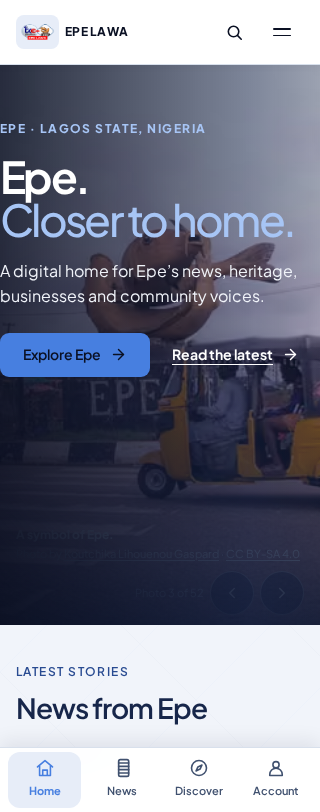
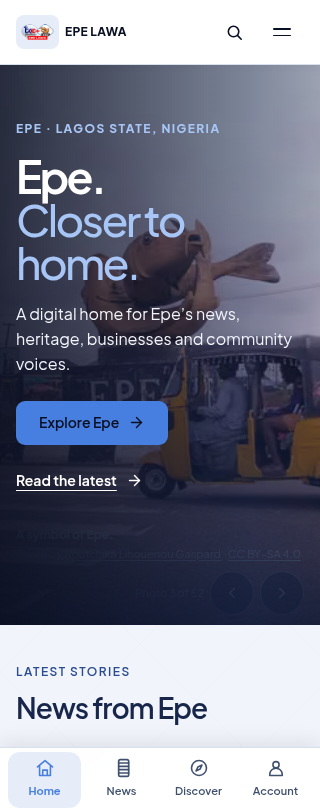
docs: refresh UI slice screenshots and verification

diff --git a/docs/screenshots/ui-first-slice/2026-11-15/README.md b/docs/screenshots/ui-first-slice/2026-11-15/README.md
@@ -1,27 +1,32 @@
 # EPE LAWA first UI slice — visual and responsive evidence
 
-These screenshots were captured from the production build in the isolated candidate worktree, not from a deployment. The responsive browser smoke passed at 320, 375, 600, 767, 768, 800, 960, 1024 and 1440 CSS pixels.
+These screenshots were captured from a local production build of app-code commit [`b447a5afa4e685e23a4503f802c66bd6795e5261`](https://github.com/epelawa/EPE-LAWA/commit/b447a5afa4e685e23a4503f802c66bd6795e5261) in the isolated candidate worktree—not from a deployed environment. The screenshots and this README are evidence-only updates after that application commit; no app source changed afterward.
 
-## What the smoke verified
+## What the browser smoke verified
 
-At every width, the page had no horizontal overflow. From 320px through 767px, the fixed navigation displayed exactly four mounted destinations—Home (`/`), News (`/news`), Discover (`/tourism`) and Account (`/dashboard`)—with 56px-tall links. The News and Discover tabs exposed the correct current state. The homepage’s first “News from Epe” heading cleared the fixed bar by about 20–23px at 320, 375, 600 and 767px. At 768px and above, the bottom bar was hidden; the desktop navigation appeared at 1024px and 1440px.
+The production-mode Chromium smoke passed at 320, 375, 600, 767, 768, 800, 960, 1024 and 1440 CSS pixels. There was no horizontal overflow at any width. At 320px the hero copy kept 16px left/right gutters; at 375px it kept 20px gutters. The first “News from Epe” heading cleared the fixed bar by about 20–23px on mobile.
 
-The Community group in the mobile drawer exposed Forum. The smoke opened Forum from that drawer, then verified Escape closes the drawer and returns focus to its trigger. Keyboard focus visibility and minimum touch targets were checked. These checks cover this UI slice only; they are not a claim that every route or member/Admin journey is complete.
+From 320px through 767px, the single named mobile navigation landmark exposed exactly four mounted destinations—Home (`/`), News (`/news`), Discover (`/tourism`) and Account (`/dashboard`)—with 56px-tall links. News and Discover showed the correct current state. Starting on `/tourism`, keyboard focus and Enter on the actual News tab navigated to `/news` and set `aria-current="page"`. The mobile drawer exposed Forum under Community; Escape closed it and restored focus to the trigger. At 768px and above the bottom bar was hidden; desktop navigation was visible at 1024px and 1440px.
+
+These checks cover this UI slice only. They are not a claim that every public route or member/Admin journey is complete.
 
 ## Screenshots
 
-- `home-320.png` and `home-375.png`: phone homepage, with the first story heading fully above the tab bar.
+- `home-320.png` and `home-375.png`: phone homepage after the gutter correction; first-story heading remains above the tab bar.
 - `home-768.png`: tablet breakpoint, where the fixed tab bar is absent.
 - `home-1440.png`: desktop homepage and shared navigation.
 - `drawer-community-forum-375.png`: mobile drawer with Forum under Community and the four-tab bar.
 - `news-375.png`: the News route’s unavailable state. The isolated preview did not have Supabase configuration, so it correctly showed “The newsroom did not load” rather than inventing or exposing stories. This is not evidence about production News availability.
 
-## Verification recorded on the candidate worktree
+## Verification and review status
 
-With Node 22.23.5 and pnpm 10.34.9, the full workspace typecheck passed (5/5 packages), both production app builds passed (2/2), and the test suite passed with 286 passed, 0 failed and 1 skipped. The nine-width Chromium production-mode smoke passed. The final commit is to be rechecked before publishing the PR; hosted checks and independent Tester/reviewer verification remain required before any merge.
+On application commit `b447a5afa4e685e23a4503f802c66bd6795e5261`, Node 22.23.5 / pnpm 10.34.9 passed the full workspace typecheck (5/5 packages), both production app builds (2/2), and the full suite (287 passed, 0 failed, 1 skipped). The nine-width browser smoke described above passed, including direct keyboard activation of News and the 320/375px gutter checks. A separate evidence-only commit adds this README and the refreshed PNG captures.
+
+The PR #108 harness is still a draft and has not been edited here. Tester is correcting three locator issues and will rerun the corrected harness against the final PR #109 head; Backend Developer 1’s independent review of that same head is also pending. This local smoke is not a substitute for either review. Keep PR #109 unmerged until those checks complete.
 
 ## Repository references
 
 - Repository: [epelawa/EPE-LAWA](https://github.com/epelawa/EPE-LAWA)
+- Draft UI review: [PR #109](https://github.com/epelawa/EPE-LAWA/pull/109)
 - Candidate base: [`main` at `45aee2788f0c9b6a986dcb6181fa6d98434fdfc2](https://github.com/epelawa/EPE-LAWA/commit/45aee2788f0c9b6a986dcb6181fa6d98434fdfc2)
-- Separate, merge-conflicted draft: [PR #101](https://github.com/epelawa/EPE-LAWA/pull/101). It is not this candidate and must not be merged as this UI slice.
+- Separate merge-conflicted draft: [PR #101](https://github.com/epelawa/EPE-LAWA/pull/101). It is not this candidate and must not be merged as this UI slice.
